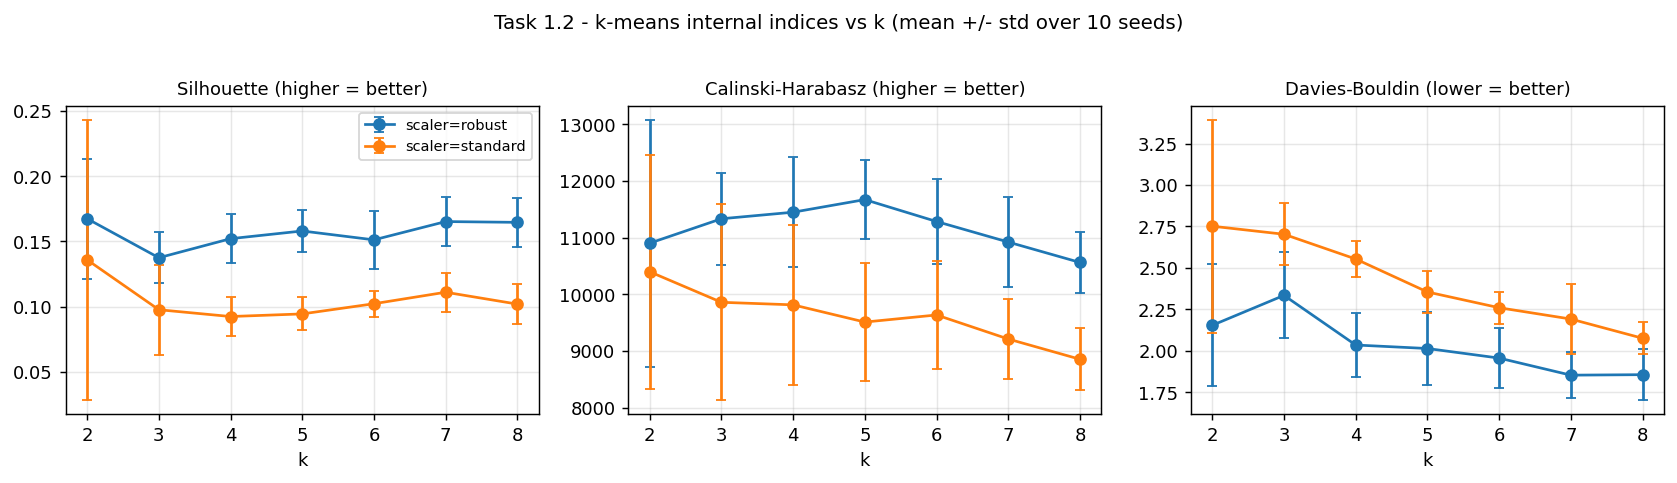
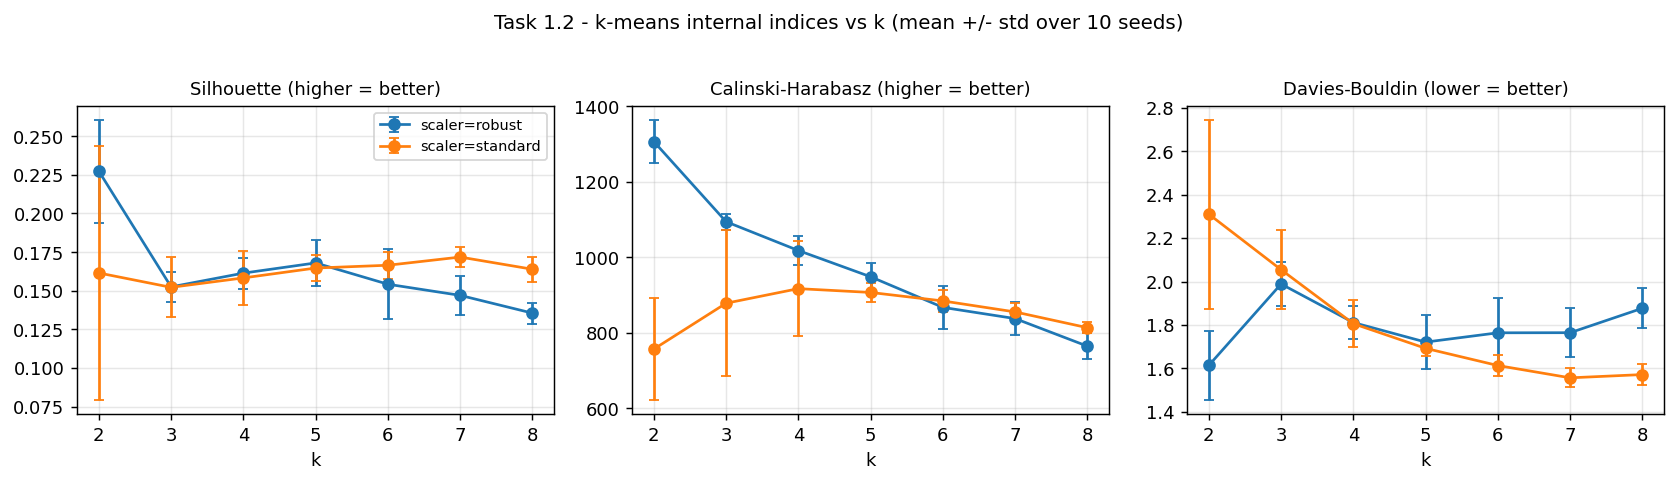
small change with corresponding result update based on prof feeback

diff --git a/src/preprocessing/pipeline.py b/src/preprocessing/pipeline.py
@@ -200,7 +200,6 @@ def build_preprocessor(scaler_cls=StandardScaler) -> Pipeline:
         ("grouper", RareCategoryGrouper(per_column={"country": COUNTRY_MIN_FREQ})),
         ("encoder", OneHotEncoder(handle_unknown="ignore", sparse_output=False)),
         ("dropvar", VarianceThreshold(threshold=OHE_VARIANCE_THRESHOLD)),
-        ("scaler", StandardScaler()),
     ])
 
     column_transformer = ColumnTransformer([